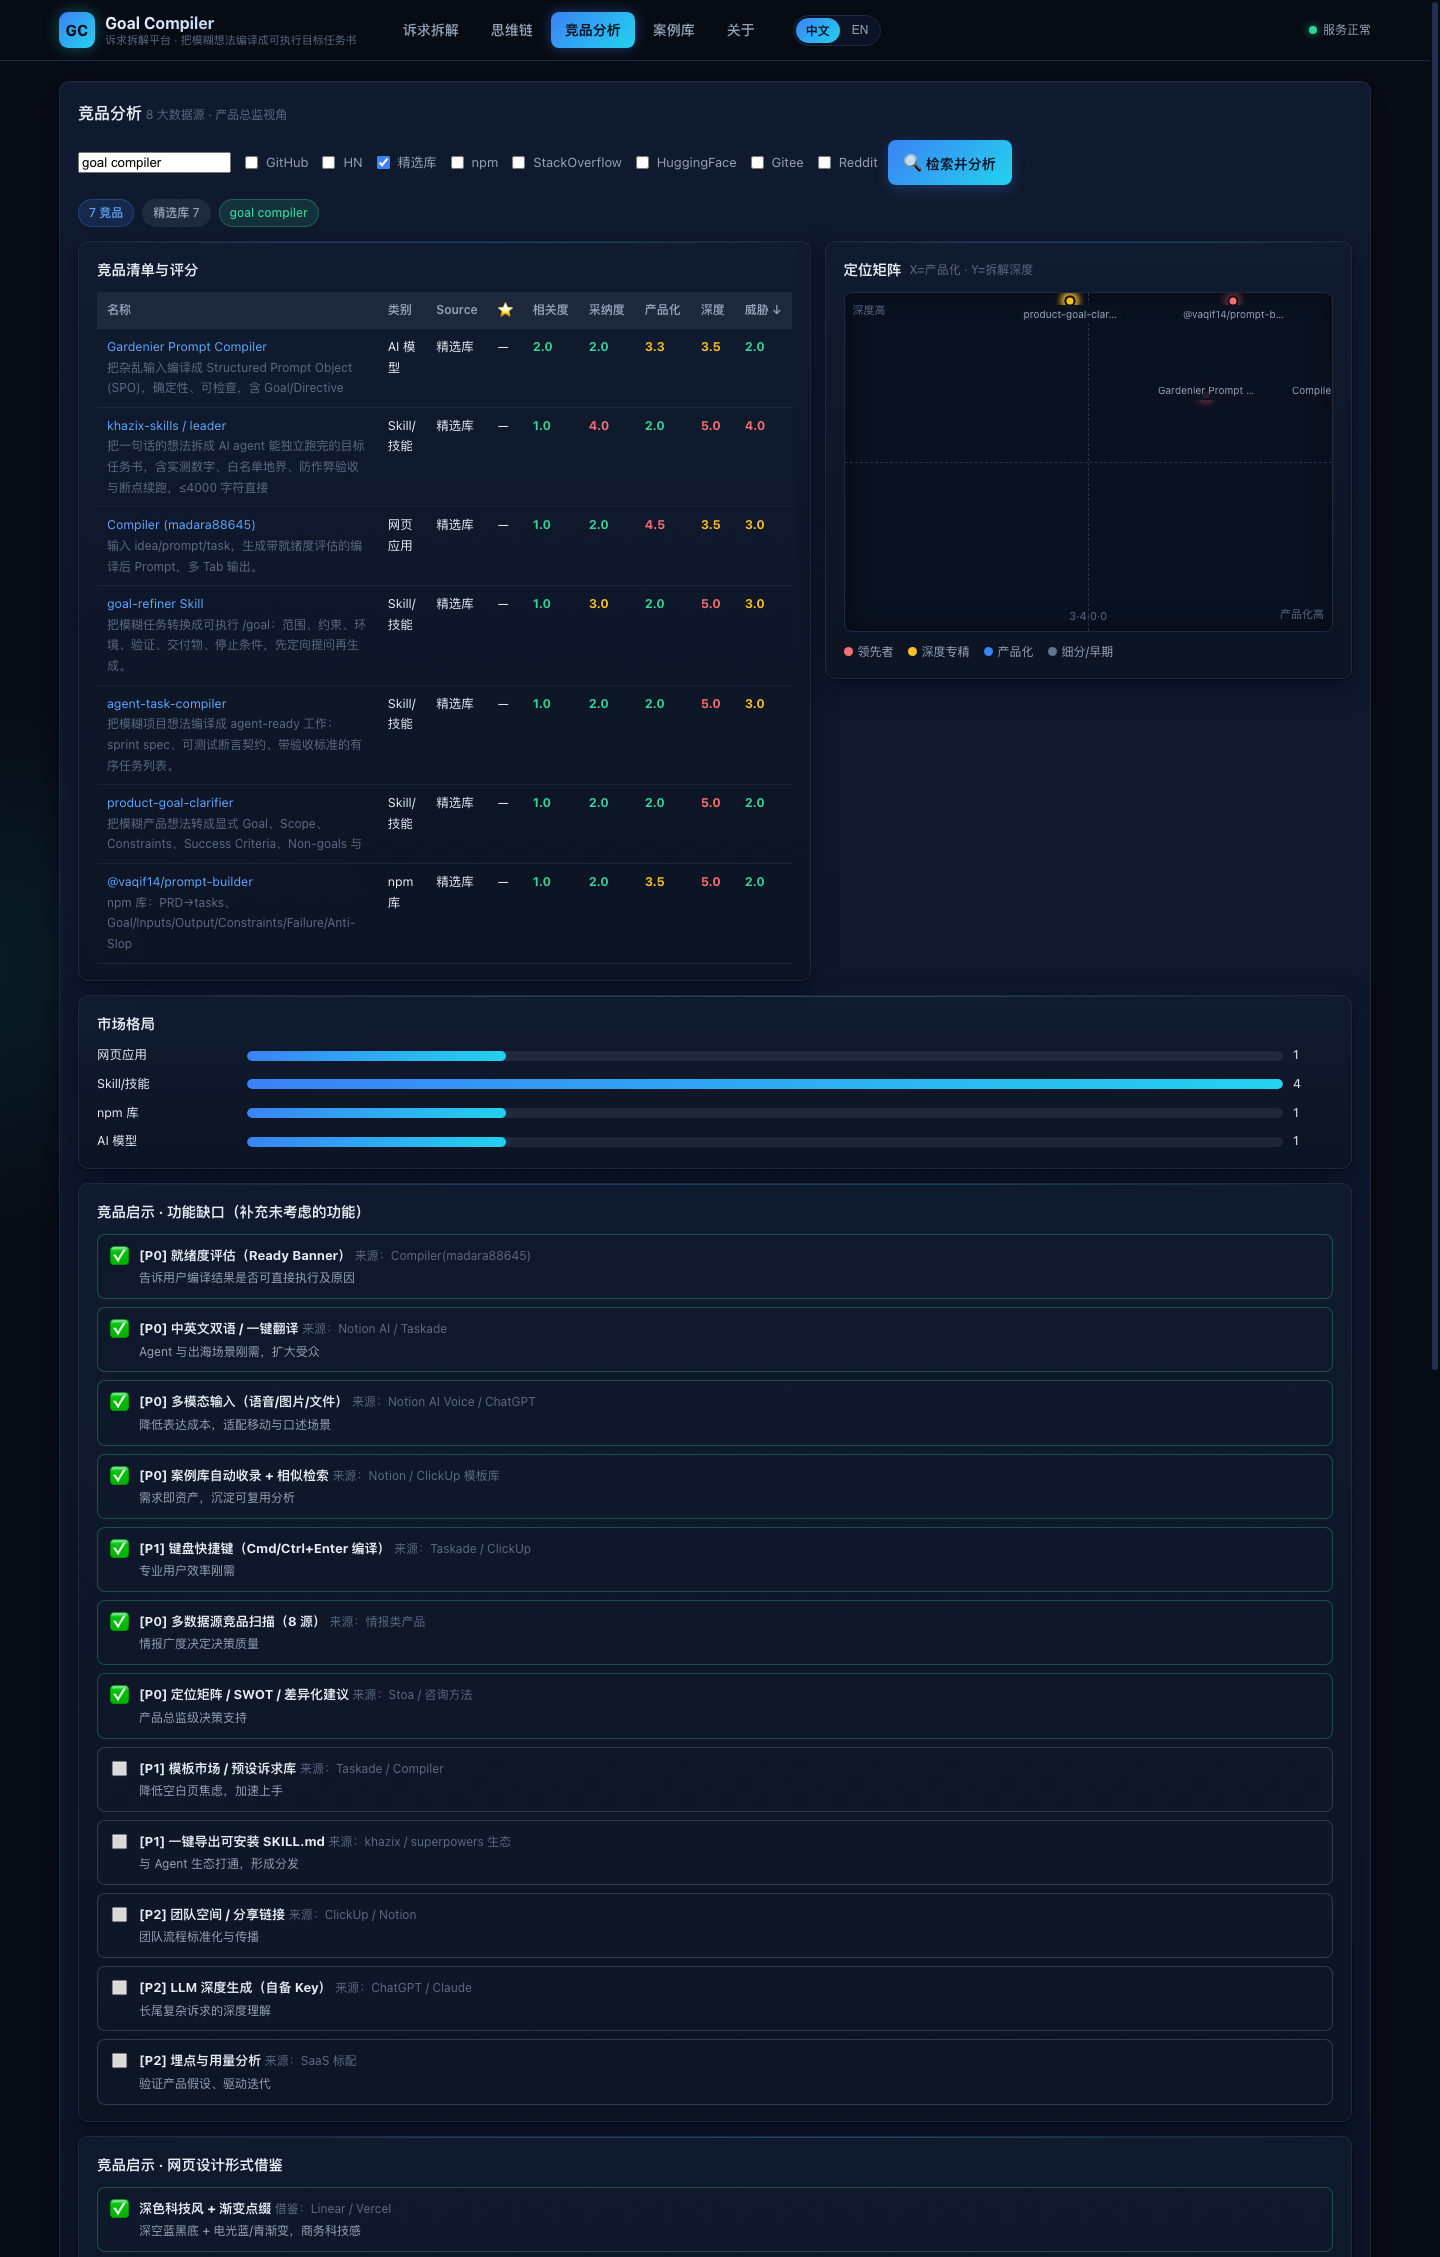
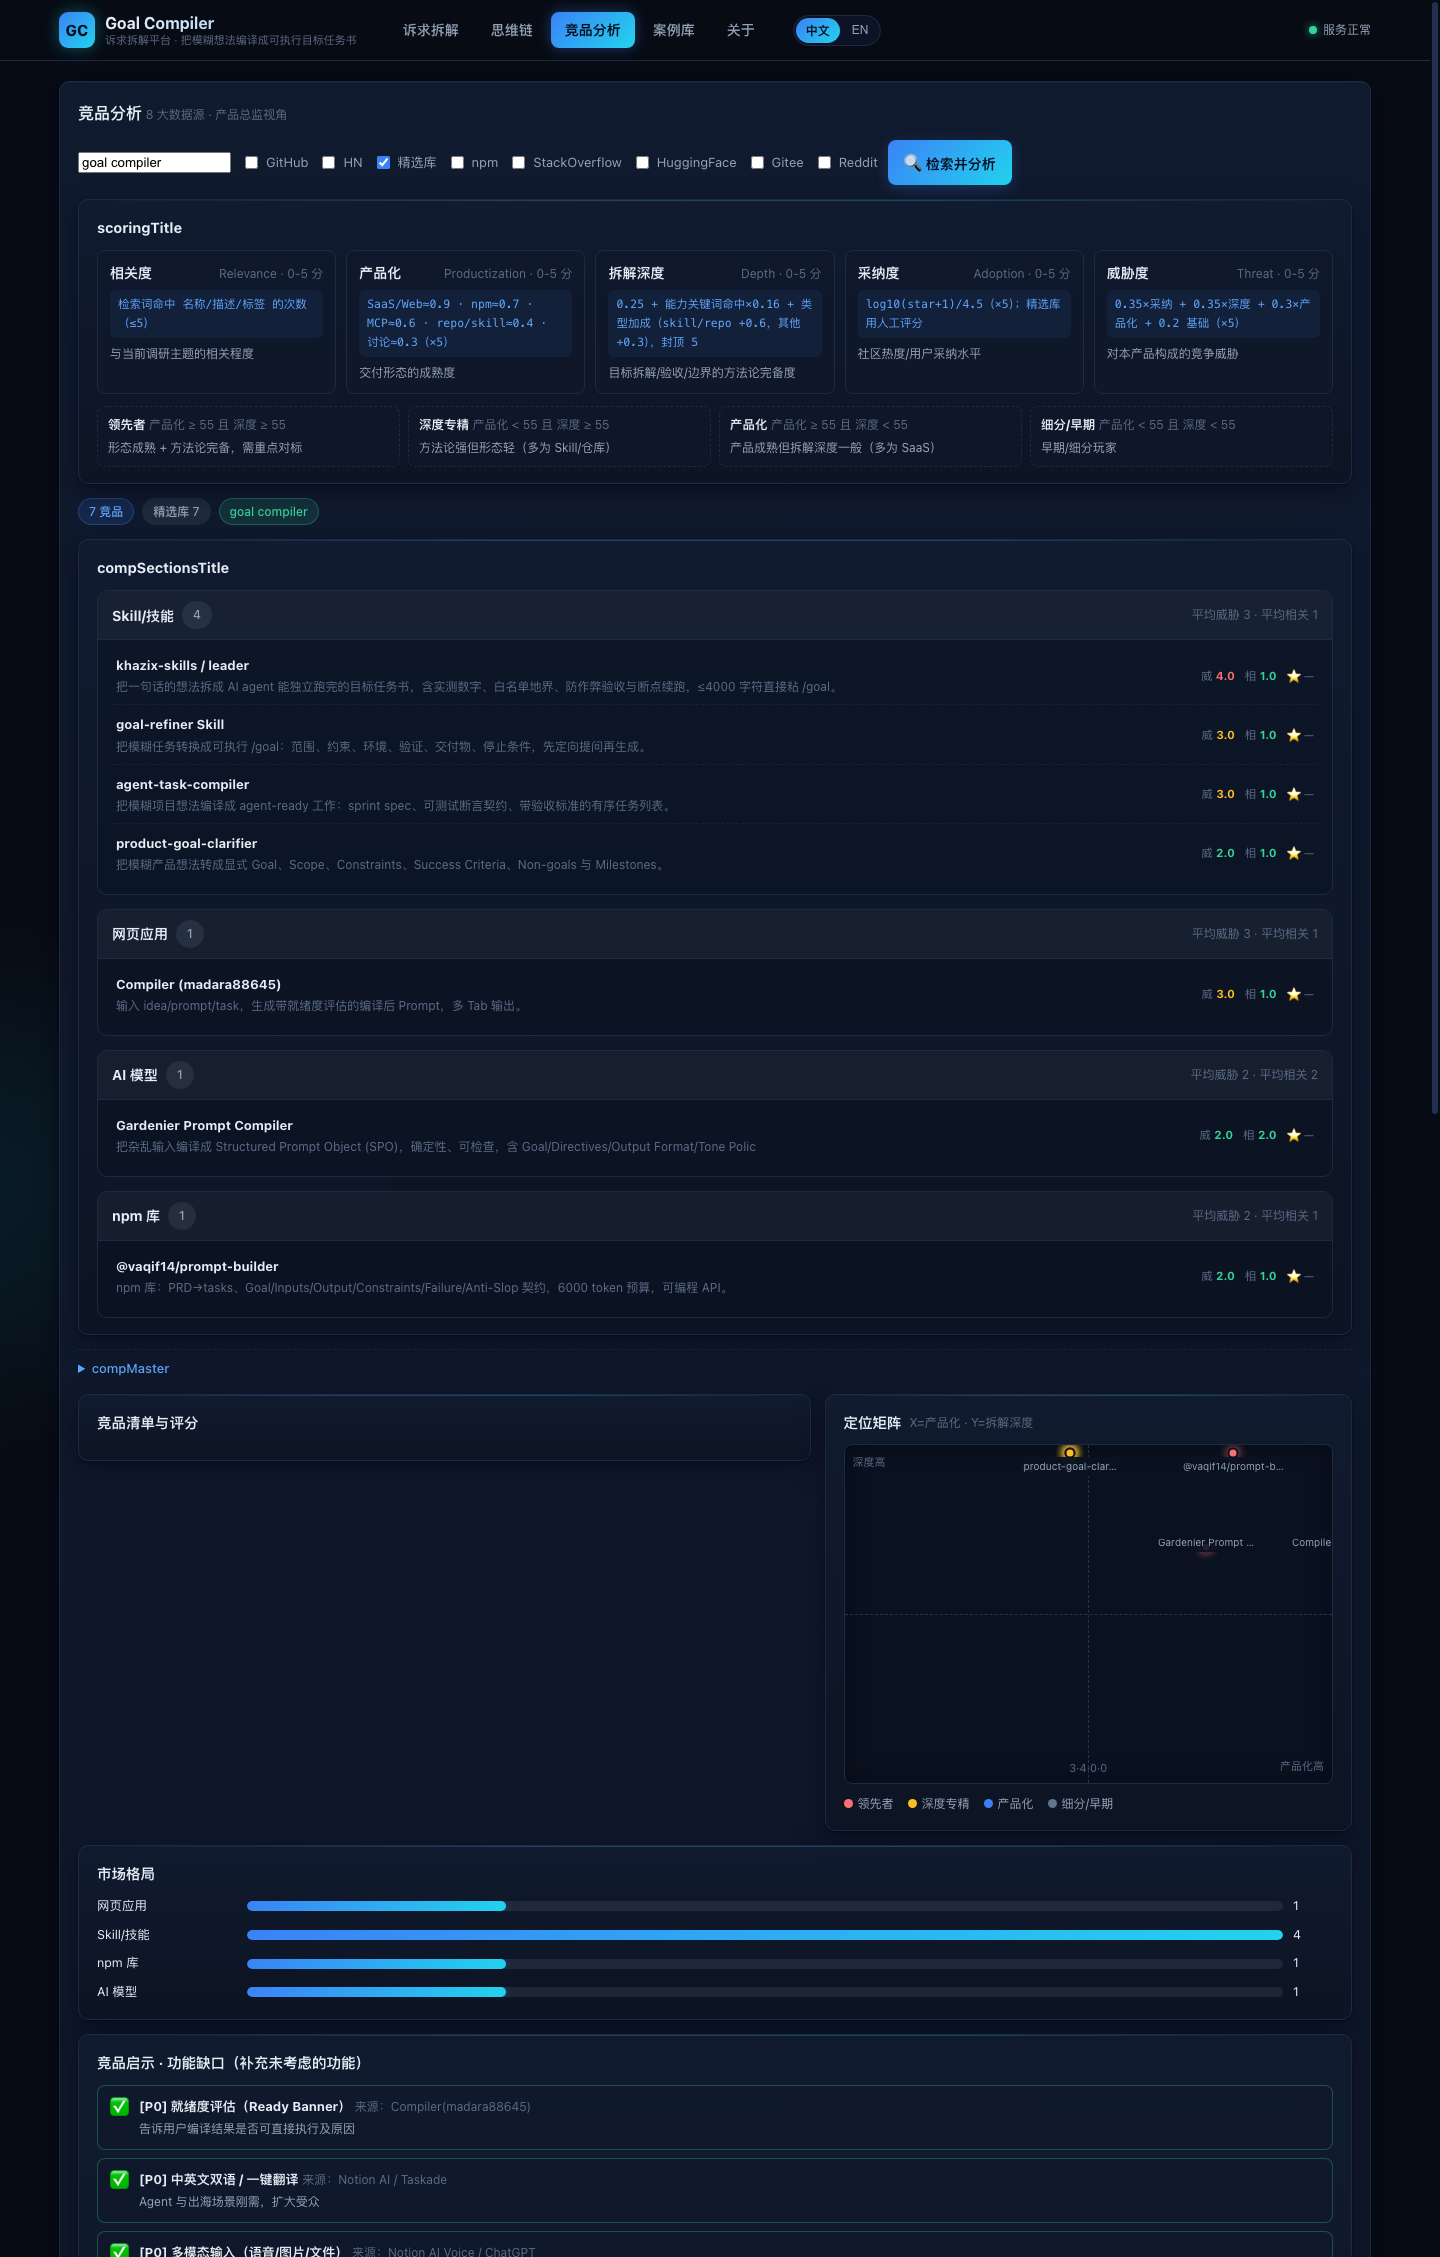
feat(goal-compiler): v4 — 竞品缺失功能落地 + 案例库按类型收录 + 评分规则与分类区域
- 🧩 一键导出可安装 SKILL.md（skilllib 纯函数，frontmatter+正文，可入 .claude/skills/.codex/skills）
- 📋 模板库 ×12（data/templates.json + /api/templates + 输入面板一键填入）
- 📈 本地用量统计（编译次数/领域/意图，隐私友好替代云端埋点）
- 🗂 案例库只收集不同类型：按 领域·意图 去重（saveCaseByType），同类型保留最新
- 📐 竞品评分规则公开：5 维 0-5 分 + 象限规则，常驻竞品页
- 🗃 竞品页按分类区域重组（groupByCategory 分区展示 + 平均威胁度，汇总表可折叠）
- 测试：单测+案例库+SKILL+API 18/18、浏览器 E2E 26/26

diff --git a/05-projects/09-goal-compiler/public/index.html b/05-projects/09-goal-compiler/public/index.html
@@ -78,6 +78,10 @@
           <button class="chip" data-quick="1">报销发票小程序</button>
           <button class="chip" data-quick="2">英语口语提升</button>
         </div>
+        <details class="opt-details" id="templatePanel">
+          <summary>📋 <span data-i18n="tplLib">模板库（竞品启示 · 预设诉求）</span></summary>
+          <div id="templateList" class="chip-row"></div>
+        </details>
       </aside>
 
       <div class="panel output-panel">
@@ -125,6 +129,7 @@
               <button class="btn-ghost" id="copyGoalBtn2" data-i18n="copy">复制</button>
               <button class="btn-ghost" id="resetGoalBtn" data-i18n="reset">恢复原文</button>
               <button class="btn-ghost" id="shareBtn" data-i18n="share">🔗 复制分享文本</button>
+              <button class="btn-ghost" id="skillBtn">🧩 导出 SKILL.md</button>
               <span class="hint" id="goalCount"></span>
             </div>
             <textarea id="goalPrompt" class="goal-editor" rows="18" spellcheck="false"></textarea>
@@ -179,8 +184,21 @@
       <div id="compLoading" class="hidden loading" data-i18n="compLoading">检索中…（GitHub 未认证限流 10 次/分钟，稍候）</div>
       <div id="compError" class="hidden error-box"></div>
 
+      <section class="card" id="scoringCard">
+        <h3 data-i18n="scoringTitle">📐 竞品评分规则 <span class="hint" data-i18n="scoringHint">5 维 0-5 分 · 定位矩阵象限规则</span></h3>
+        <div id="scoringRules" class="scoring-grid"></div>
+        <div id="quadrantRules" class="quadrant-row"></div>
+      </section>
       <div id="compResult" class="hidden">
         <div class="result-meta" id="compMetrics"></div>
+        <section class="card">
+          <h3 data-i18n="compSectionsTitle">🗂 竞品清单 · 按分类区域</h3>
+          <div id="compSections" class="comp-sections"></div>
+        </section>
+        <details class="opt-details" style="margin: 0 0 14px;">
+          <summary data-i18n="compMaster">📊 查看全部竞品汇总表（可排序）</summary>
+          <div style="margin-top:10px;"><table class="tbl" id="compTable"><thead></thead><tbody></tbody></table></div>
+        </details>
         <div class="comp-grid">
           <section class="card">
             <h3 data-i18n="compTable">竞品清单与评分 <span class="hint" data-i18n="compTableHint">点击表头排序</span></h3>
@@ -214,7 +232,7 @@
   <!-- ============ Tab: 案例库 ============ -->
   <section id="tab-cases" class="tab-panel">
     <div class="panel">
-      <div class="panel-head"><h2 data-i18n="caseTitle">案例库 <span class="hint" data-i18n="caseHint">每次编译自动收录 · 搜索相似需求可参考分析</span></h2></div>
+      <div class="panel-head"><h2 data-i18n="caseTitle">案例库 <span class="hint" data-i18n="caseHint2">只收集不同类型的需求（按领域·意图去重）· 搜索相似需求可参考</span></h2></div>
       <div class="case-tools">
         <input id="caseSearch" data-i18n-ph="caseSearchPh" placeholder="🔍 搜索相似需求（关键词 / 领域 / 意图）…" />
         <select id="caseCatFilter"><option value="">全部分类</option></select>
@@ -250,6 +268,8 @@
         </ul>
         <h3 data-i18n="techStack">技术栈</h3>
         <p data-i18n="techDesc">Node.js（零第三方依赖）服务端 + 原生 JS/CSS 前端。编译引擎为规则模板 + 领域知识库 + 中英双语生成，可离线运行。</p>
+        <h3 data-i18n="statsTitle">📈 本地用量统计（隐私友好 · 替代云端埋点）</h3>
+        <div id="usageStats" class="usage-stats"></div>
         <h3>设计自核验（人性化视觉审计）</h3>
         <div id="designAudit" class="audit-grid"></div>
         <h3 data-i18n="docs">文档</h3>

diff --git a/05-projects/09-goal-compiler/public/styles.css b/05-projects/09-goal-compiler/public/styles.css
@@ -298,3 +298,30 @@ kbd { font-family: var(--mono); font-size: 10px; background: rgba(0,0,0,.25); bo
 .audit-item.todo { border-color: rgba(148,163,184,.25); }
 .audit-mark { font-size: 14px; line-height: 1.4; }
 @media (max-width: 1080px) { .audit-grid { grid-template-columns: 1fr; } }
+
+/* ---- v4 组件：评分规则 / 分类区域 / 用量统计 ---- */
+.scoring-grid { display: grid; grid-template-columns: repeat(auto-fit, minmax(230px, 1fr)); gap: 10px; margin-bottom: 12px; }
+.score-rule { background: rgba(15,23,42,.5); border: 1px solid var(--border); border-radius: 8px; padding: 10px 12px; }
+.score-rule-head { display: flex; justify-content: space-between; align-items: baseline; gap: 6px; flex-wrap: wrap; }
+.score-rule-formula { font-family: var(--mono); font-size: 11.5px; color: var(--primary-bright); background: rgba(59,130,246,.08); border-radius: 6px; padding: 5px 8px; margin: 6px 0; }
+.quadrant-row { display: grid; grid-template-columns: repeat(auto-fit, minmax(220px, 1fr)); gap: 8px; }
+.quad-rule { background: rgba(15,23,42,.4); border: 1px dashed var(--border); border-radius: 8px; padding: 8px 10px; font-size: 12.5px; }
+
+.comp-sections { display: flex; flex-direction: column; gap: 14px; }
+.comp-section { border: 1px solid var(--border); border-radius: 10px; background: rgba(10,17,32,.5); overflow: hidden; }
+.comp-section-head { display: flex; align-items: center; justify-content: space-between; padding: 10px 14px; background: rgba(148,163,184,.08); border-bottom: 1px solid var(--border); }
+.comp-section-head h4 { margin: 0; font-size: 14px; display: flex; align-items: center; gap: 8px; }
+.comp-section-items { padding: 8px 14px 12px; display: flex; flex-direction: column; gap: 2px; }
+.comp-item { display: flex; align-items: center; justify-content: space-between; gap: 10px; padding: 7px 4px; border-bottom: 1px dashed rgba(30,42,68,.6); }
+.comp-item:last-child { border-bottom: none; }
+.comp-item-main { display: flex; flex-direction: column; gap: 1px; min-width: 0; }
+.comp-item-main a { color: var(--text); text-decoration: none; font-size: 13px; }
+.comp-item-main a:hover { color: var(--primary-bright); }
+.comp-item-scores { display: flex; gap: 10px; align-items: center; flex-shrink: 0; }
+.mini-score { font-size: 11.5px; color: var(--faint); }
+.mini-score b { font-weight: 700; }
+
+.usage-stats { display: grid; grid-template-columns: repeat(auto-fit, minmax(150px, 1fr)); gap: 10px; margin-bottom: 8px; }
+.usage-stat { background: linear-gradient(180deg, rgba(17,28,49,.8), rgba(12,19,33,.8)); border: 1px solid var(--border); border-radius: 10px; padding: 14px; text-align: center; }
+.usage-stat b { display: block; font-size: 24px; font-weight: 800; color: var(--primary-bright); }
+.usage-stat span { font-size: 12px; color: var(--muted); }

diff --git a/05-projects/09-goal-compiler/README.md b/05-projects/09-goal-compiler/README.md
@@ -22,6 +22,15 @@
 - 💡 **竞品启示**：功能缺口清单 + 网页设计形式借鉴（补未考虑项）
 - ✅ **就绪度评估**、⌘↵ 快捷编译、🔗 复制分享、设计自核验（人性化视觉审计）
 
+## 本次升级（v4）
+
+- 🧩 **一键导出可安装 SKILL.md**：编译结果可直接导出为 `.claude/skills` / `.codex/skills` 可安装技能（对标 khazix/superpowers 生态）
+- 📋 **模板库（预设诉求 ×12）**：覆盖 SaaS/小程序/AI Agent/数据看板/爬虫/内容/学习/创业/增长/调研/面试/复盘，一键填入
+- 📈 **本地用量统计**：编译次数/覆盖领域/高频领域/高频意图（隐私友好，替代云端埋点）
+- 🗂 **案例库只收集不同类型**：按「领域·意图」去重，每种类型仅保留最新一条
+- 📐 **竞品评分规则公开**：5 维 0-5 分（相关度/产品化/拆解深度/采纳度/威胁度）+ 定位矩阵象限规则
+- 🗃 **竞品页按分类区域重组**：Skill / 仓库 / SaaS / 网页应用 / MCP / npm / AI 模型 / 社区讨论 分区展示（含平均威胁度）
+
 设计风格：**商务科技深色**（深空蓝黑底 + 电光蓝/青渐变、玻璃拟态卡片、高信息密度，保持商务高效简约）。
 
 ## 快速开始
@@ -37,8 +46,8 @@ node server/server.mjs 8910
 ## 测试
 
 ```bash
-node --test tests/compile.test.mjs tests/caselib.test.mjs tests/api.test.mjs tests/api2.test.mjs   # 单元 + 案例库 + API（16/16）
-node tests/e2e-cdp.mjs                                                                             # 浏览器端到端（17/17，需本机 Chrome）
+node --test tests/compile.test.mjs tests/caselib.test.mjs tests/skilllib.test.mjs tests/api.test.mjs tests/api2.test.mjs   # 单测+案例库+SKILL+API（18/18）
+node tests/e2e-cdp.mjs                                                                                                         # 浏览器端到端（26/26，需本机 Chrome）
 ```
 
 ## 3 个内置测试用例
